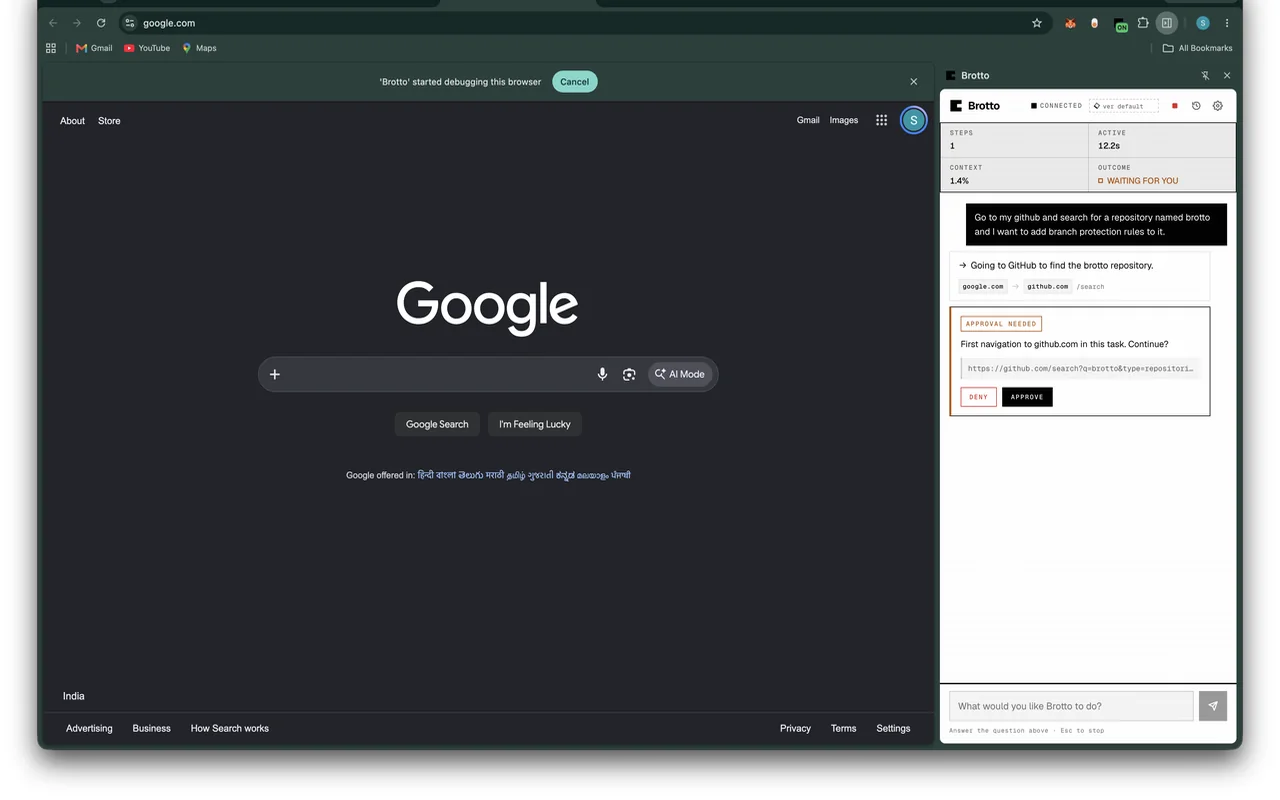
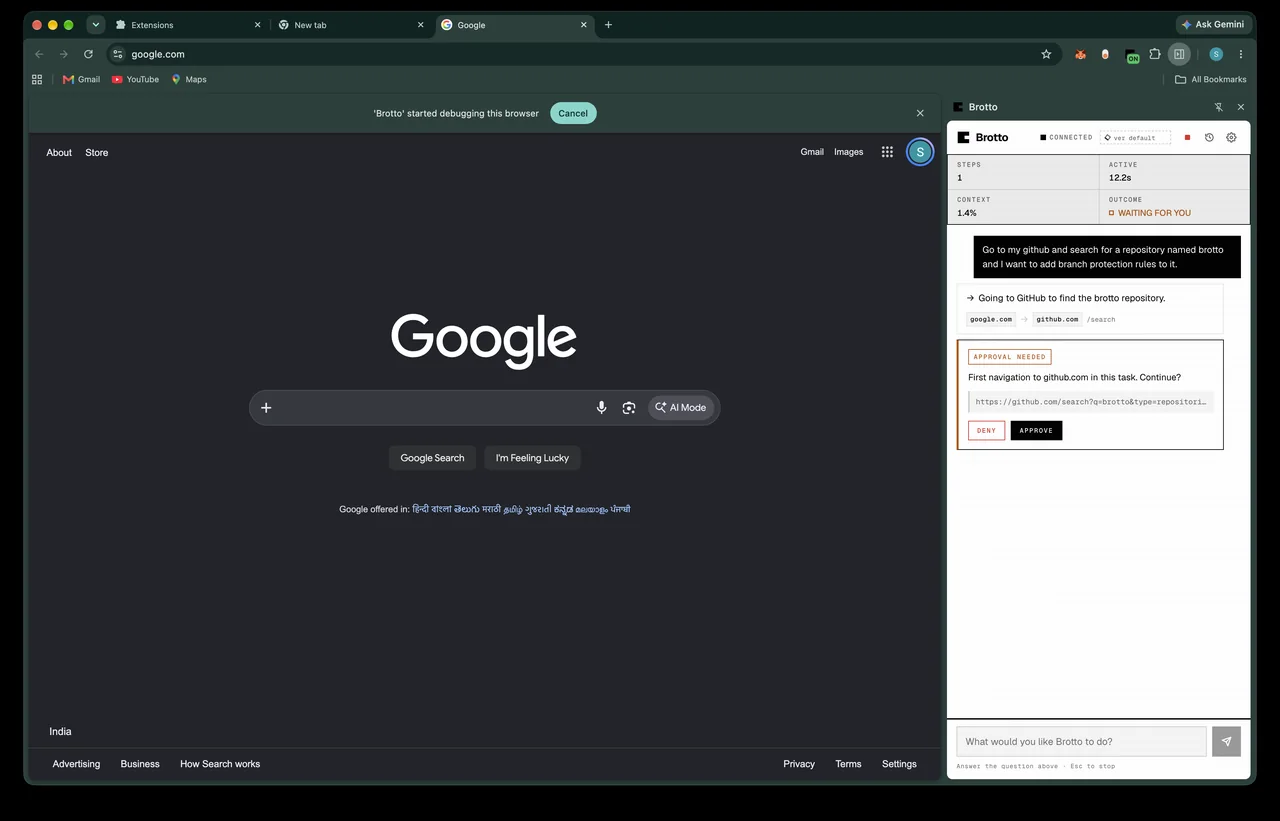
Crop the run shots to the browser window, and restore the history panel
The white bars on the run shots were not padding. The source PNGs carry an
alpha channel and everything outside the browser window is transparent;
flattening them onto white turned that margin into a white frame on all four
sides. Crop to the opaque bounds and composite on the desktop's own black
instead, which is what the capture actually looked like.

The history panel is back in the Screens grid, cropped to the rows above the
bank activity. The list below those rows names real HDFC and Splitwise
accounts with amounts debited, so it stays out of the public repo; two clean
rows still show the shape of the list — title, step count, wall time, cost.

diff --git a/README.md b/README.md
@@ -60,8 +60,9 @@ references, the structure a screen reader already navigates by. No vision model,
 <div align="center">
 <table>
 <tr>
-<td width="50%"><img src="docs/images/panel-idle.webp" alt="The Brotto panel, idle, with suggestions" width="100%"><br><sub><b>Idle.</b> The panel offers what the page in front of you could be asked to do.</sub></td>
-<td width="50%"><img src="docs/images/panel-settings.webp" alt="Brotto's settings: bring your own model key, and the sites it refuses" width="100%"><br><sub><b>Yours.</b> Your model key, your server, and the list of sites Brotto refuses outright.</sub></td>
+<td width="33%"><img src="docs/images/panel-idle.webp" alt="The Brotto panel, idle, with suggestions" width="100%"><br><sub><b>Idle.</b> The panel offers what the page in front of you could be asked to do.</sub></td>
+<td width="33%"><img src="docs/images/panel-session-history.webp" alt="The session history list" width="100%"><br><sub><b>History.</b> Every run, on your own disk, yours to delete.</sub></td>
+<td width="33%"><img src="docs/images/panel-settings.webp" alt="Brotto's settings: bring your own model key, and the sites it refuses" width="100%"><br><sub><b>Yours.</b> Your model key, your server, and the list of sites Brotto refuses outright.</sub></td>
 </tr>
 </table>
 </div>
